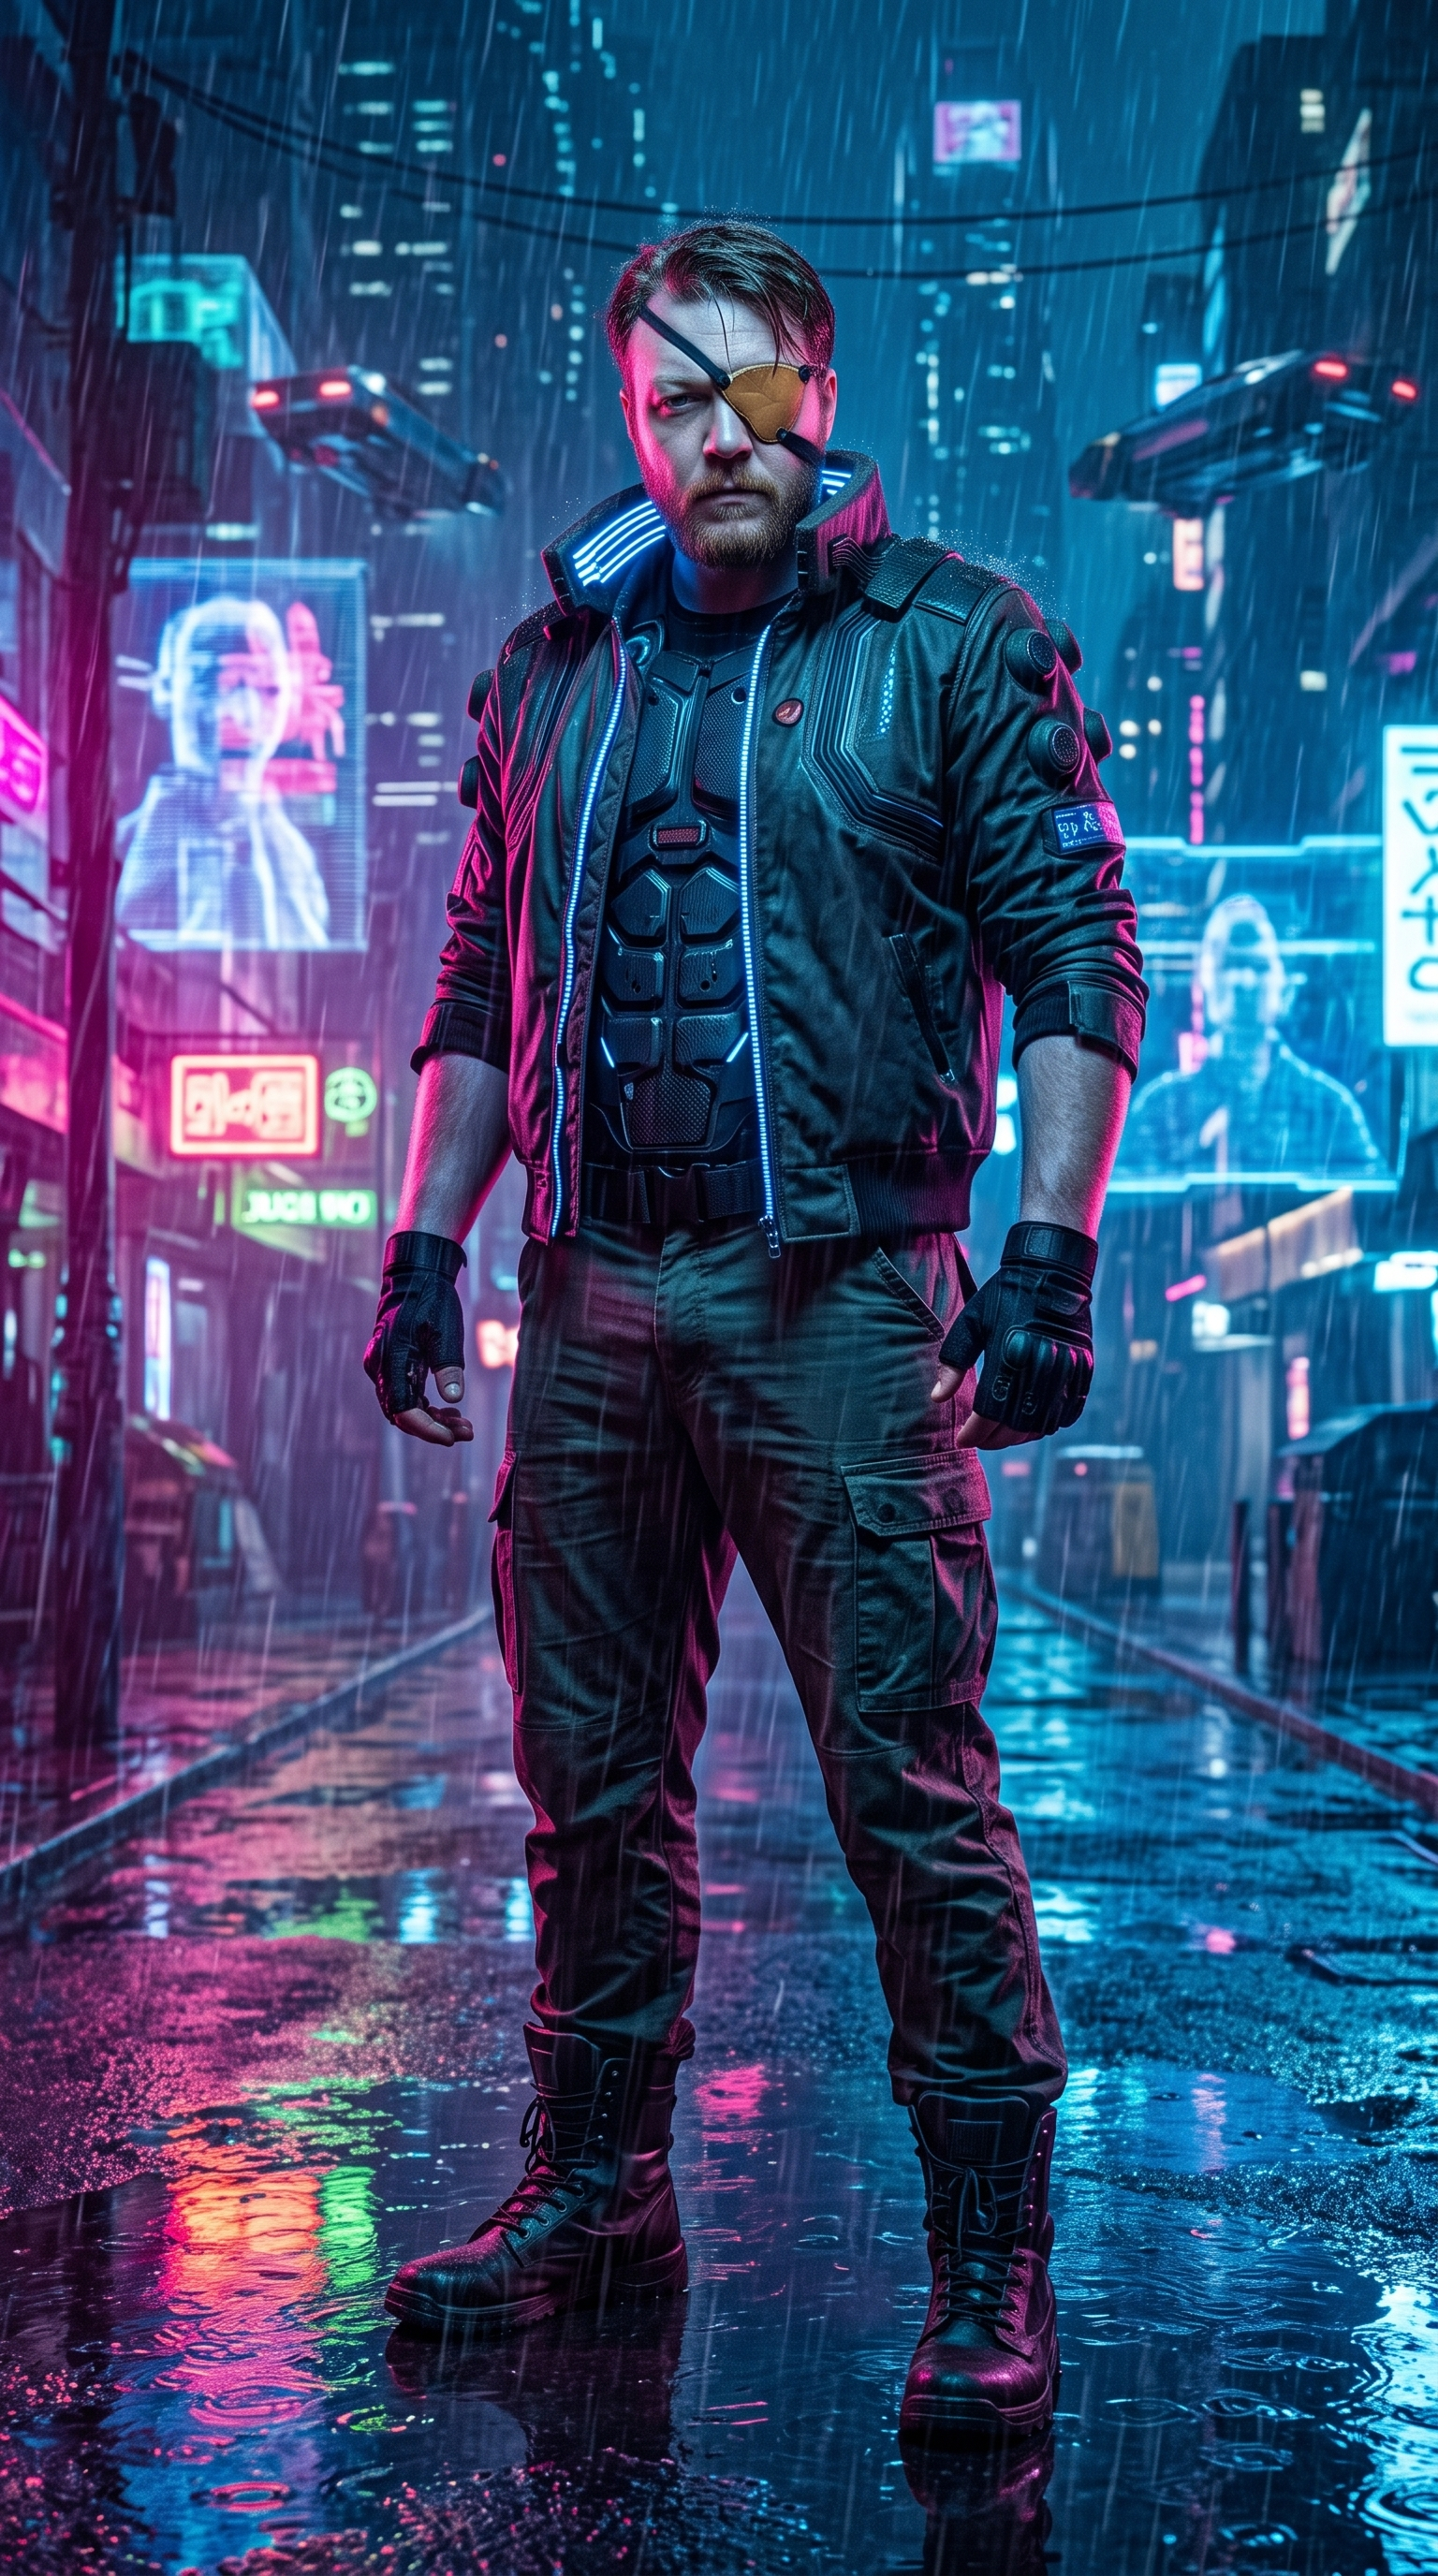
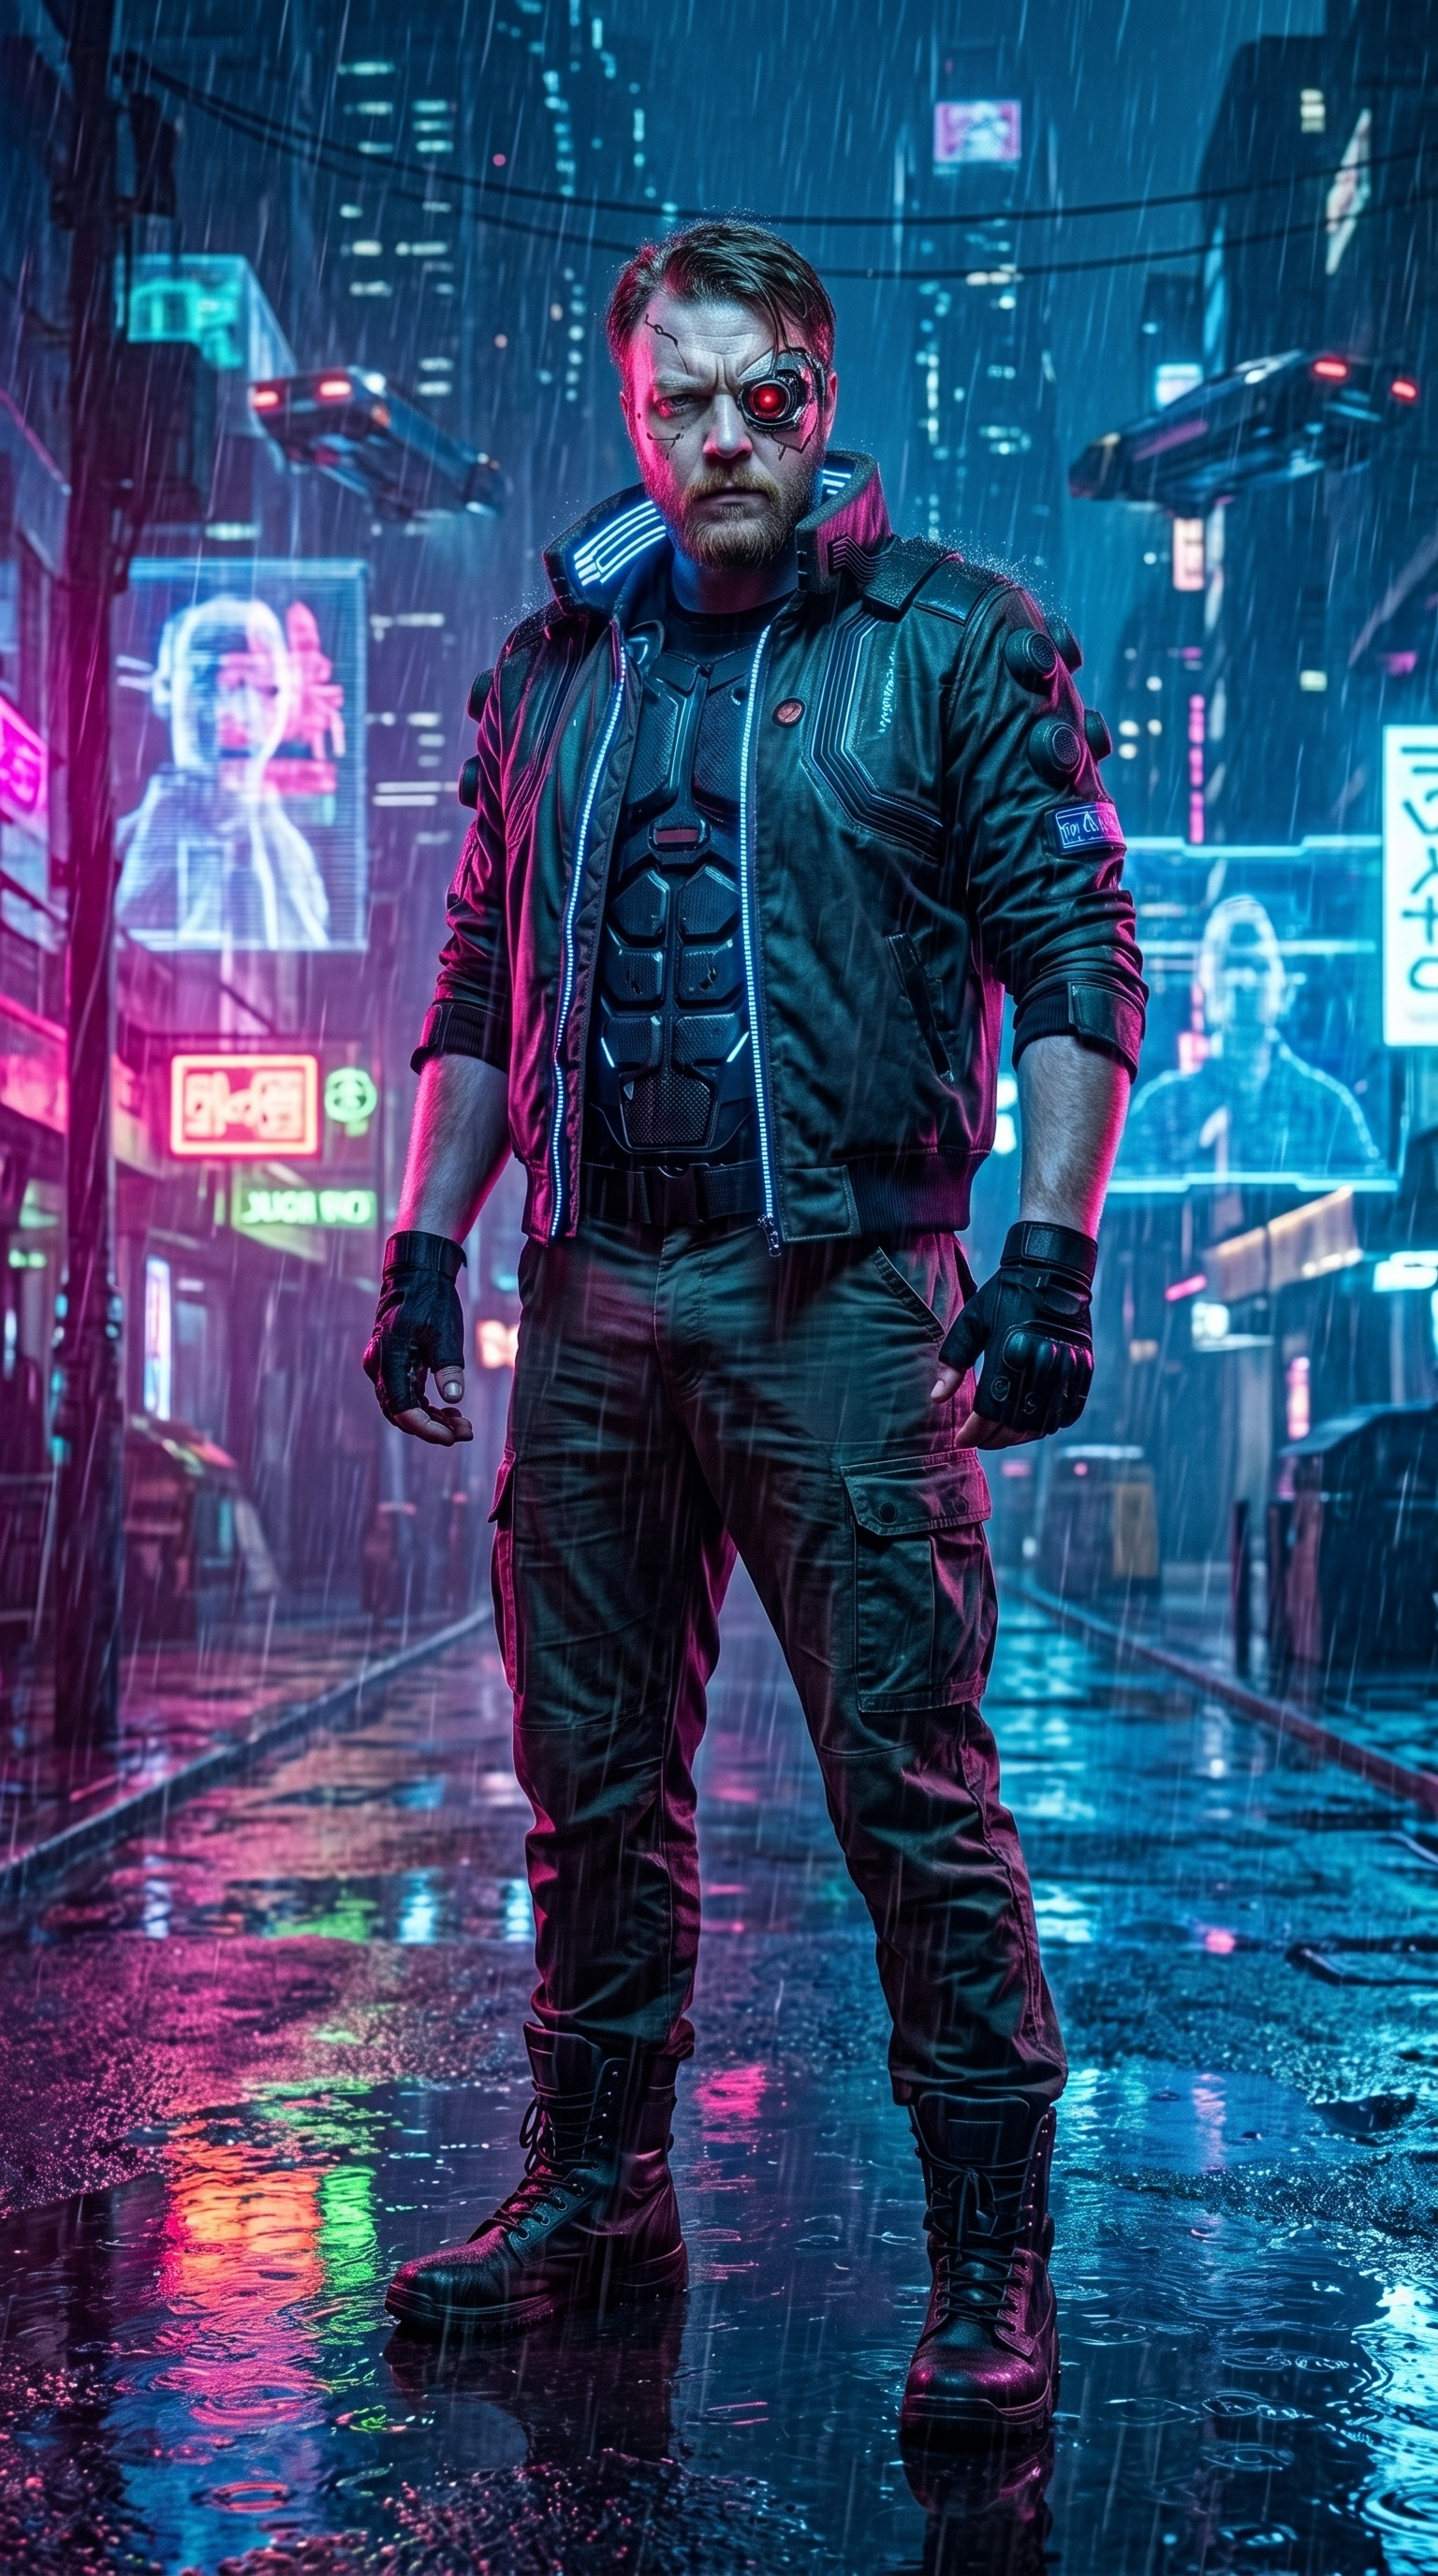
Add files via upload

diff --git a/style.css b/style.css
@@ -26,56 +26,49 @@ body, html {
     text-shadow: 0 0 20px rgba(0,0,0,0.5);
 }
 
-/* Kontejner pro všechny 3 obrázky */
+/* Kontejner pro karty - zde jsem zvětšil gap */
 .portal-grid {
     display: flex;
-    width: 90vw; 
+    width: 85vw; /* Zúženo pro lepší vzhled */
     height: 70vh; 
     margin: 15vh auto; 
-    gap: 30px; 
+    gap: 60px; /* Zvětšeno na 60px pro větší rozestupy */
 }
 
 /* Jednotlivý kosočtverec (Karta) */
 .portal {
     flex: 1;
     position: relative;
-    transform: skewX(-15deg); /* Naklonění doleva */
+    transform: skewX(-15deg);
     overflow: hidden;
     transition: 0.5s ease;
     border: 3px solid rgba(255,255,255,0.1);
     cursor: pointer;
 }
 
-/* TADY JSOU VŠECHNY TŘI SPRÁVNĚ JAKO .jpeg */
 .medival { background-image: url('medival.jpeg'); }
 .postapo { background-image: url('postapo.jpeg'); } 
 .cyber { background-image: url('cyber.jpeg'); }
 
-/* "Odzkosení" a napozicování obrázku uvnitř rámečku */
 .portal::before {
     content: ''; 
     position: absolute; 
     top: 0; 
-    left: -20%; /* Rozšíření do stran, aby nebyly prázdné rohy */
+    left: -20%; 
     width: 140%; 
     height: 100%;
-    transform: skewX(15deg); /* Narovnání fotky zpět, aby postavy nestály šikmo */
+    transform: skewX(15deg); 
     background: inherit; 
     background-size: cover; 
-    
-    /* 10% posune fotku víc na horní okraj, aby nebyly uříznuté hlavy */
     background-position: center 10%; 
-    
     transition: 0.5s;
 }
 
-/* Co se stane, když na fotku najedeš myší (zvětší se) */
 .portal:hover {
     flex: 1.5; 
     border-color: #fff;
 }
 
-/* Text uprostřed karty (FANTASY, POSTAPO, CYBERPUNK) */
 .portal span { 
     position: absolute; 
     top: 50%; 
@@ -90,21 +83,20 @@ body, html {
     z-index: 5;
 }
 
-/* Zobrazení textu po najetí myší */
 .portal:hover span { 
     opacity: 1; 
 }
 
-/* Nový text pod obrázky */
+/* Text pod obrázky */
 .sub-title {
     position: absolute;
-    bottom: 5%; /* Umístí text 5 % od spodního okraje */
+    bottom: 5%;
     width: 100%;
     text-align: center;
     color: white;
-    font-size: 2rem; /* Velikost textu (o něco menší než nadpis) */
+    font-size: 2rem;
     letter-spacing: 2px;
     z-index: 10;
-    pointer-events: none; /* Aby text nepřekážel klikání na obrázky, kdyby se náhodou překrývaly */
-    text-shadow: 0 0 20px rgba(0,0,0,0.5); /* Stejný stín jako u hlavního nadpisu */
+    pointer-events: none;
+    text-shadow: 0 0 20px rgba(0,0,0,0.5);
 }